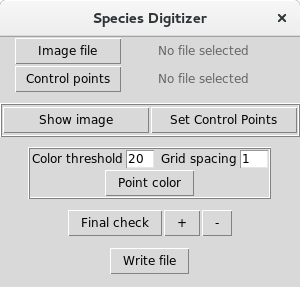
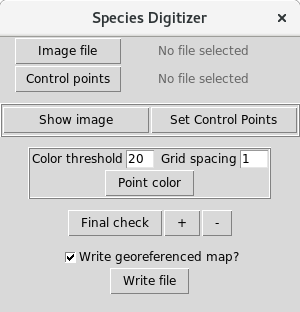
added a checkbutton to export georeference map

diff --git a/README.md b/README.md
@@ -3,7 +3,7 @@
 The species digitizer package helps the process of georeferencing
 images and digitize species presence. The automated digitalization is
 based on a color, thus, contrasting colors with the background often
-produces the best results. 
+produces the best results.
 
 ## Installation
 
@@ -14,7 +14,7 @@ There are several option to install *species digitizer*:
   users may have to use [Rtools](https://cran.r-project.org/bin/windows/Rtools/)
   to rebuild the package.
 
-- Clone the repository with *git* and build the package in your computer. 
+- Clone the repository with *git* and build the package in your computer.
 
 - Use the *devtools* package in R. Example code:
 
@@ -99,7 +99,8 @@ you need to add more that were not found in the automated process or
 if you need to remove. You have the "+" button to add and the "-"
 button to remove. The process is the same for both: start clicking
 with left mouse button on the miss/extra points and, when finished,
-press the right button. Check the results and write the file if happy!
-
-
-
+press the right button. If you are happy with the results, you can save
+the file with the "write" button. If you want to save the georeferenced
+original map, check the box above the button. This will copy the map with
+the same name as given before with an additional world file that provides
+the geo reference (note: works with tif and jpg).
